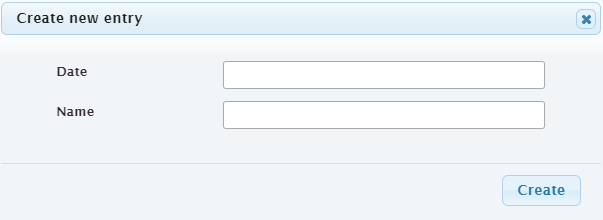
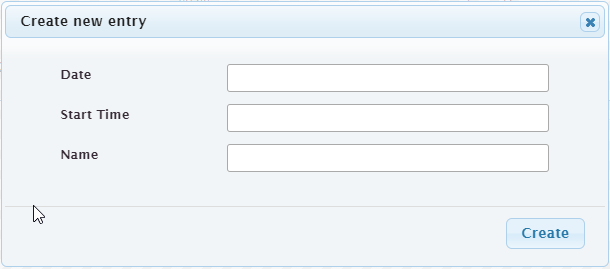
csv file now has time of day to avoid standard time transition (#43)

diff --git a/app/src/tm_csv_connector/views/public/home.py b/app/src/tm_csv_connector/views/public/home.py
@@ -3,7 +3,7 @@ home - public views
 =================================
 '''
 # standard
-from datetime import timedelta
+from datetime import timedelta, time
 from traceback import format_exception_only, format_exc
 from os.path import join
 from shutil import copy
@@ -166,8 +166,7 @@ class ResultsView(TmConnectorView):
             with open(tmpfname, mode='w') as f:
                 csvf = DictWriter(f, fieldnames=filecolumns, extrasaction='ignore')
                 for row in rows:
-                    rowdict = {}
-                    db2file.transform(row, rowdict)
+                    rowdict = db2file(row)
                     csvf.writerow(rowdict)
 
             # overwrite file
@@ -255,12 +254,14 @@ results_view = ResultsView(
 )
 results_view.register()
 
-races_dbattrs = 'id,name,date'.split(',')
-races_formfields = 'rowid,name,date'.split(',')
+races_dbattrs = 'id,name,date,start_time'.split(',')
+races_formfields = 'rowid,name,date,start_time'.split(',')
 races_dbmapping = dict(zip(races_dbattrs, races_formfields))
 races_formmapping = dict(zip(races_formfields, races_dbattrs))
 races_dbmapping['date'] = lambda formrow: dtrender.asc2dt(formrow['date']).date()
 races_formmapping['date'] = lambda dbrow: dtrender.dt2asc(dbrow.date)
+races_dbmapping['start_time'] = lambda formrow: time.fromisoformat(formrow['start_time'])
+races_formmapping['start_time'] = lambda dbrow: dbrow.start_time.isoformat('minutes')
 
 def races_validate(action, formdata):
     races = []
@@ -292,6 +293,13 @@ races_view = RacesView(
         {'data': 'date', 'name': 'date', 'label': 'Date',
          'type': 'datetime',
          'className': 'field_req',
+        },
+        {'data': 'start_time', 'name': 'start_time', 'label': 'Start Time',
+         'type': 'datetime',
+         'className': 'field_req',
+         'ed': {
+             'format': 'HH:mm',
+         }
         },
         {'data': 'name', 'name': 'name', 'label': 'Name',
          'className': 'field_req',
@@ -427,8 +435,7 @@ class PostResultApi(MethodView):
                 # write to the file
                 if filesetting:
                     with open(filepath, mode='a') as f:
-                        filedata = {}
-                        db2file.transform(result, filedata)
+                        filedata = db2file(result)
                         current_app.logger.debug(f'appending to {filesetting.value}: {filedata["pos"],filedata["bibno"],filedata["time"]}')
                         csvf = DictWriter(f, fieldnames=filecolumns, extrasaction='ignore')
                         csvf.writerow(filedata)

diff --git a/app/src/tm_csv_connector/fileformat.py b/app/src/tm_csv_connector/fileformat.py
@@ -3,7 +3,7 @@
 # standard
 from threading import Lock
 
-# homegrown
+# pypi
 from loutilities.transform import Transform
 from loutilities.renderrun import rendertime
 
@@ -35,8 +35,26 @@ def fulltime(timesecs):
 
     return ':'.join(timesplit)
     
-db2file = Transform({
-    'pos': 'tmpos',
-    'time': lambda r: fulltime(r.time),
-    'bibno': 'bibno'
-}, sourceattr=True, targetattr=False)
+
+def db2file(result):
+    """convert database result (elapsed time) to file dict (time of day)
+    
+    Args:
+        result (model.Result): result as received from time machine (elapsed time)
+
+    Returns:
+        dict: result row for file, with time as time of day, see db2filet Transform
+    """
+    start_time = result.race.start_time
+    tod_offset = 3600*start_time.hour + 60*start_time.minute + start_time.second
+    
+    db2filet = Transform({
+        'pos': 'tmpos',
+        'time': lambda r: fulltime(r.time + tod_offset),
+        'bibno': 'bibno'
+    }, sourceattr=True, targetattr=False)
+
+    resultrow = {}
+    db2filet.transform(result, resultrow)
+
+    return resultrow

diff --git a/app/src/tm_csv_connector/__init__.py b/app/src/tm_csv_connector/__init__.py
@@ -9,7 +9,7 @@ import os.path
 # pypi
 from flask import Flask, send_from_directory, g, session, request, render_template, current_app
 from jinja2 import ChoiceLoader, PackageLoader
-from sqlalchemy import select
+from sqlalchemy import text
 from sqlalchemy.exc import NoReferencedTableError, ProgrammingError
 import loutilities
 from loutilities.configparser import getitems
@@ -74,8 +74,8 @@ def create_app(config_obj, configfiles=None, init_for_operation=True):
         # is database available?
         database_available = True
         try:
-            # races = db.session.scalars(select(Race))
-            races = Race.query.all()
+            # https://stackoverflow.com/a/75547136/799921
+            db.session.execute(text('SELECT 1'))
         except (NoReferencedTableError, ProgrammingError):
             database_available = False
     

diff --git a/app/src/migrations/versions/fe83b0b0e782_races_add_start_time.py b/app/src/migrations/versions/fe83b0b0e782_races_add_start_time.py
@@ -1,0 +1,32 @@
+"""races: add start_time
+
+Revision ID: fe83b0b0e782
+Revises: 65b322b3237f
+Create Date: 2023-12-16 21:11:34.423997
+
+"""
+from alembic import op
+import sqlalchemy as sa
+
+
+# revision identifiers, used by Alembic.
+revision = 'fe83b0b0e782'
+down_revision = '65b322b3237f'
+branch_labels = None
+depends_on = None
+
+
+def upgrade():
+    # ### commands auto generated by Alembic - please adjust! ###
+    with op.batch_alter_table('race', schema=None) as batch_op:
+        batch_op.add_column(sa.Column('start_time', sa.Time(), nullable=True))
+
+    # ### end Alembic commands ###
+
+
+def downgrade():
+    # ### commands auto generated by Alembic - please adjust! ###
+    with op.batch_alter_table('race', schema=None) as batch_op:
+        batch_op.drop_column('start_time')
+
+    # ### end Alembic commands ###

diff --git a/app/src/tm_csv_connector/model.py b/app/src/tm_csv_connector/model.py
@@ -39,9 +39,10 @@ Base = db.Model
 
 class Race(Base):
     __tablename__ = 'race'
-    id      = Column(Integer(), primary_key=True)
-    name    = Column(Text)
-    date    = Column(Date)
+    id          = Column(Integer(), primary_key=True)
+    name        = Column(Text)
+    date        = Column(Date)
+    start_time  = Column(Time)
     results = relationship('Result', back_populates='race', cascade='all, delete, delete-orphan')
     
     @hybrid_property

diff --git a/web/docs/source/users-guide.rst b/web/docs/source/users-guide.rst
@@ -80,7 +80,7 @@ Set Up Race in RaceDay Scoring
   
     * click Quick Setup
     * set Start Time Location: Not a timed start
-    * set Actual Start Time to midnight
+    * verify Actual Start Time is set to the race start time
     * click **Save**
   
   * click Streams |rds-streams|
@@ -156,7 +156,7 @@ Time Machine and **tmtility** Connection
 
 * On the laptop, in browser, navigate to `http://tm.localhost:8080/ <http://tm.localhost:8080/>`_
 
-  * create the Race using :ref:`Races view`
+  * create the Race using :ref:`Races view`, with date and start time configured the same as RaceDay Scoring
   * navigate to :ref:`Results view` for duration of the race
   * verify **Race** is set correctly
   

diff --git a/web/docs/source/admin-guide.rst b/web/docs/source/admin-guide.rst
@@ -75,7 +75,7 @@ App Installation
 * with your browser, navigate to http://tm.localhost:8080/ 
 * navigate to Settings view (this only has to be done once)
 
-  * add New setting, Setting=output-file, Value=tm-data.dsv # or whatever filename you want the outputput put in
+  * add New setting, Setting=output-file, Value=tm-data.dsv # or whatever filename you want the output put in
 
 
 App Upgrade
